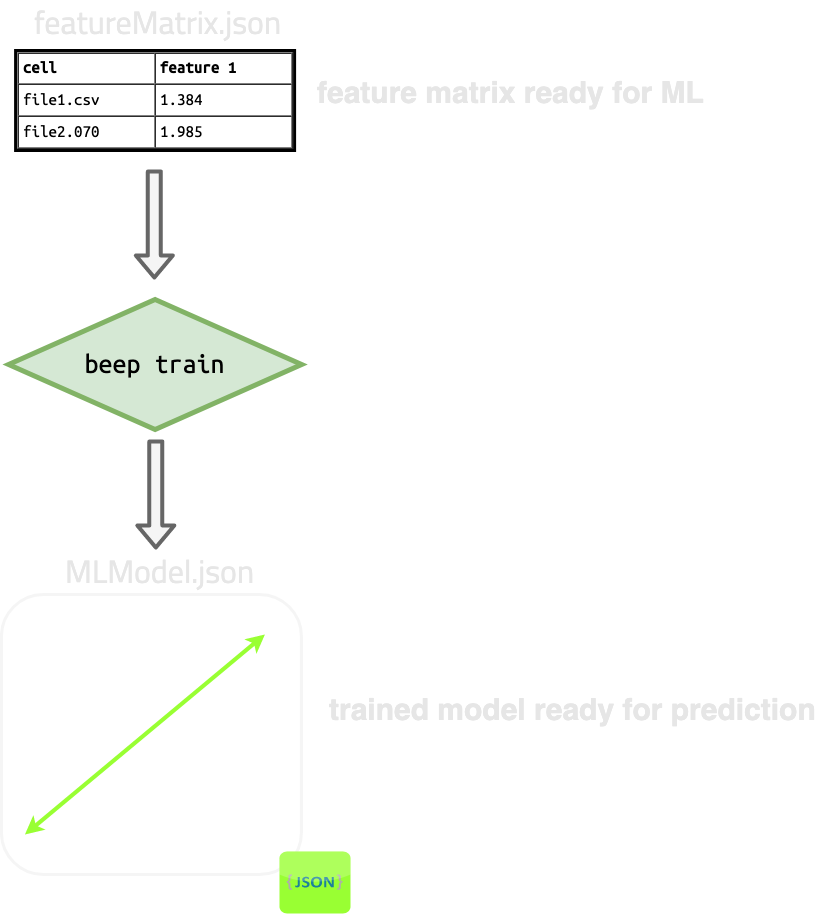
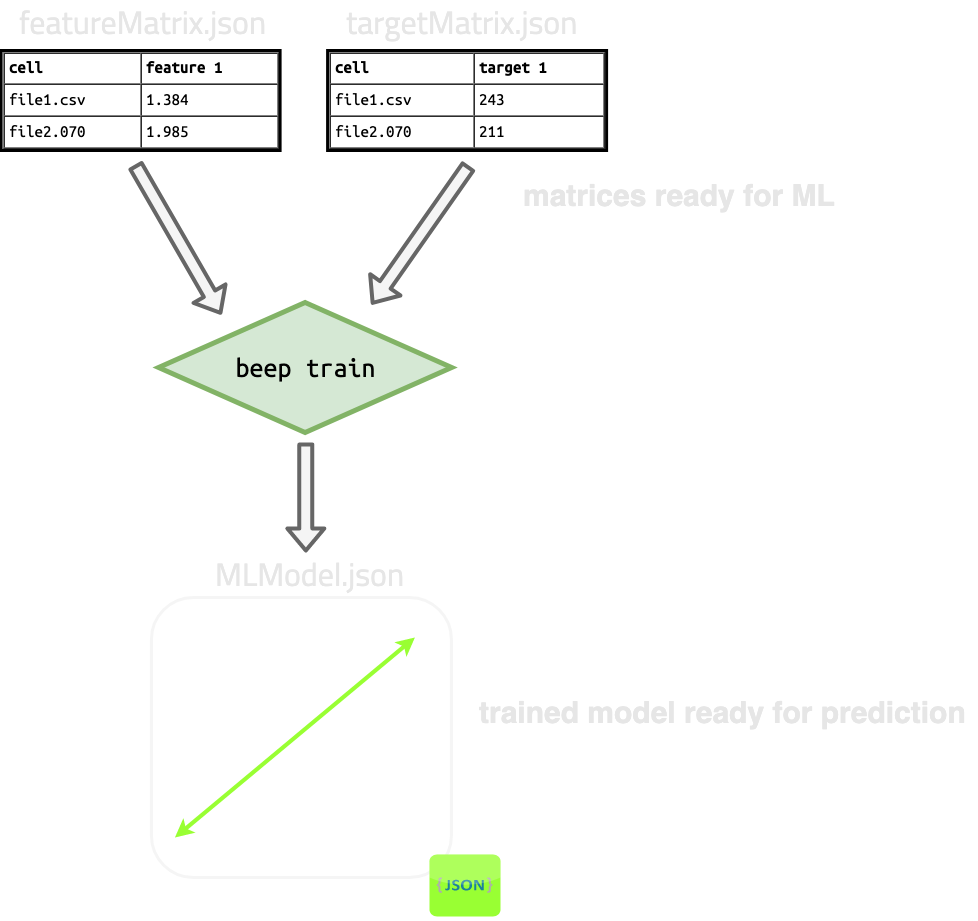
update featurize docs, add train docs skeleton

diff --git a/docs_src/Command Line Interface/3 - featurize.md b/docs_src/Command Line Interface/3 - featurize.md
@@ -71,6 +71,12 @@ Options:
 ```
 
 
+## Specifying input
+
+The inputs for `beep featurize` are structured json output files from `beep structure`; Alternatively, structured data serialized with `BEEPDatapath` in python will also work.
+
+Files can be glo
+
 
 ## Specifying outputs
 
@@ -99,20 +105,20 @@ For example, to apply the `HPPCResistanceVoltageFeatures` and `CycleSummaryStats
 
 
 ```shell
-$: beep featurize -f HPPCResistanceVoltageFeatures -f CycleSummaryStats
+$: beep featurize -f HPPCResistanceVoltageFeatures -f CycleSummaryStats my_structured_file.json
 ```
 
 
 You can apply the full set of featurizers for generating learning features by passing `--featurize-with all_features`:
 
 ```shell
-$: beep featurize -f all_features
+$: beep featurize -f all_features my_structured_file.json
 ```
 
 Similarly, for features from which degradation targets can be derived, pass `--featurize-with all_targets`
 
 ```shell
-$: beep featurize -f all_targets
+$: beep featurize -f all_targets my_structured_file.json
 ```
 
 *Note passing `all_features` or `all_targets` will override any other `--featurize-with` classes.*
@@ -137,7 +143,7 @@ Each featurizer should be passed in dictionary format with one or more valid hyp
 ```
 
 ```shell
-$: beep featurize -h '{"HPPCResistanceVoltageFeatures":{"diag_pos": 1, "soc_window": 8}}'
+$: beep featurize -h '{"HPPCResistanceVoltageFeatures":{"diag_pos": 1, "soc_window": 8}}' my_structured_file.json
 ```
 
 Hyperparameters not specified will be merged with the default hyperparameter dictionary defined for each featurizer.
@@ -148,7 +154,8 @@ To apply multiple featurizers with custom hyperparameters (even the same featuri
 ```shell
 $: beep featurize -h '{"HPPCResistanceVoltageFeatures":{"diag_pos": 1, "soc_window": 8}}' \
   -h '{"HPPCResistanceVoltageFeatures":{"diag_pos": 47, "soc_window": 10}}' \
-  -h '{"DiagnosticSummaryStats": {"test_time_filter_sec": 1e4}}'
+  -h '{"DiagnosticSummaryStats": {"test_time_filter_sec": 1e4}}' \
+  my_structured_file.json
 ```
 
 
@@ -163,7 +170,7 @@ Instead of using the class name to identify the featurizer, use `--featurize-wit
 For example, if your featurizer inheriting `BEEPFeaturizer` is installed in your environment in a module `my_pkg.my_module.my_submodule.MyClass`, do:
 
 ```shell
-$: beep featurize -f my_pkg.my_module.my_submodule.MyClass
+$: beep featurize -f my_pkg.my_module.my_submodule.MyClass my_structured_file.json
 ```
 
 
@@ -173,12 +180,14 @@ and the value being a dictionary of hyperparameters to override:
 
 
 ```shell
-$: beep featurize -h '{"my_pkg.my_module.my_submodule.MyClass": {"my_hp1": 12}}'
-```
+$: beep featurize -h '{"my_pkg.my_module.my_submodule.MyClass": {"my_hp1": 12}}' \
+  my_structured_file.json
+````
 
 Any number of external featurizers can be used alongside any number of builtin featurizers in the same command by passing multiple `--featurize-with` options:
 
 ```shell
 $: beep featurize -f HPPCResistanceVoltageFeatures \
-  -h '{"my_pkg.my_module.my_submodule.MyClass": {"my_hp1": 12}}'
+  -h '{"my_pkg.my_module.my_submodule.MyClass": {"my_hp1": 12}}' \
+  my_structured_file.json
 ```

diff --git a/docs_src/Command Line Interface/4 - train.md b/docs_src/Command Line Interface/4 - train.md
@@ -1,5 +1,18 @@
 # Train
 
+`beep train` is a one line command to perform hyperparameter tuning and model fitting on previously generated
+feature matrices.
+
+As input, `beep train` takes:
+
+- the feature matrix file containing the features for learning
+- the feature matrix file containing the targets (e.g., degradation-related metrics) to fit on
+
+
+As output, `beep train` produces a single json file of the serialized model. 
+
+
+
 ![cli_train](../static/op_graphic_train.png)
 
 ## Train help dialog
